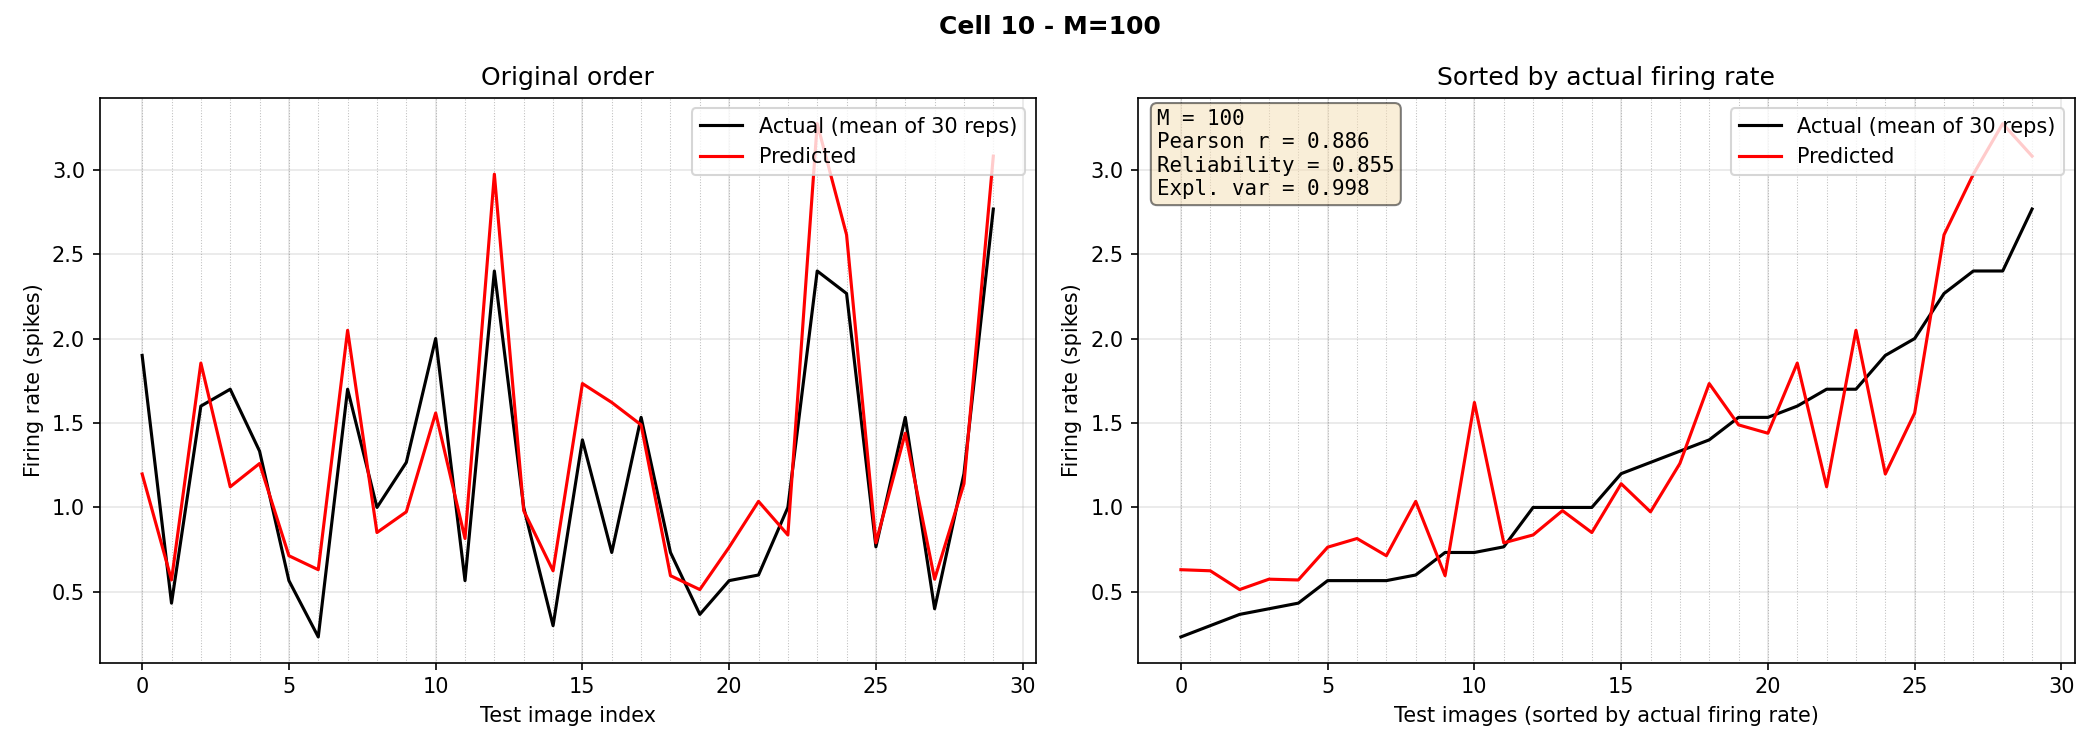
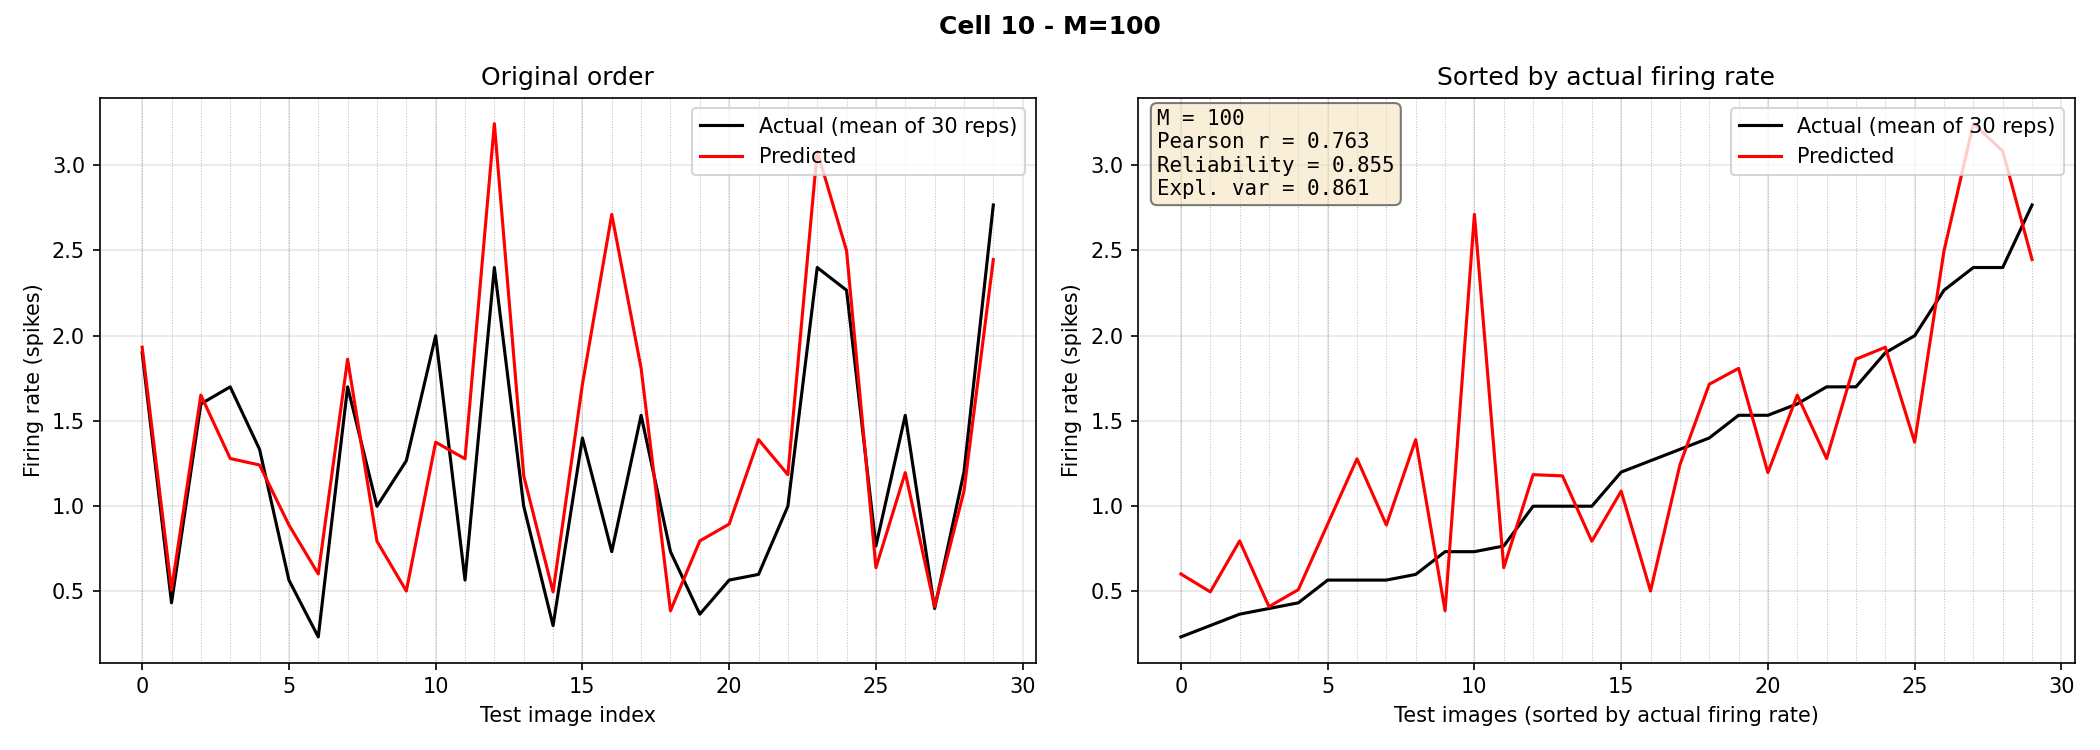
Phase 4: Update documentation after codebase reorganization
## Documentation Updates

- Updated CLAUDE.md:
  - New file map with clear categories (Shared, Eigenspace, GPyTorch, Legacy)
  - Updated training modes section (removed vargp_style)
  - Clarified that legacy files are deprecated

- Renamed VARGP_DIRECT_REFERENCE.md → EIGENSPACE_REFERENCE.md
  - Updated all file path references (eigenspace.py → eigenspace_utils.py, etc.)
  - Updated import examples

- Added SESSION_LOG.md entry documenting complete reorganization

## Current Status

**Active implementations:**
- eigenspace (vargp_direct mode): 7 modular files
- default_gpy: 2 modular files
- Shared utilities: 4 files

**Deprecated/Legacy:**
- deprecated/ folder: vargp_style mode archived with README
- Legacy files still present: train.py, estep.py, fstep.py, mstep.py, model.py
  (marked as deprecated, imported by deprecated/ wrappers, will be removed in future cleanup)

Both active modes tested and working ✓

diff --git a/Spatial_GP_repo/scripts/gpytorch_porting/run_canonical_tests.py b/Spatial_GP_repo/scripts/gpytorch_porting/run_canonical_tests.py
@@ -5,9 +5,11 @@ run_canonical_tests.py - Run the standard benchmark test matrix.
 Runs all canonical configurations for regression testing and performance tracking.
 Results are appended to results/benchmark_results.jsonl.
 
-Test Matrix (16 configurations per seed):
-  - ntrain=500:  M=50, 100, 200 × modes={vargp_old, vargp_style, vargp_direct, default_gpy}
-  - ntrain=2000: M=200 × modes={vargp_old, vargp_style, vargp_direct, default_gpy}
+Test Matrix (12 configurations per seed):
+  - ntrain=500:  M=50, 100, 200 × modes={vargp_old, vargp_direct, default_gpy}
+  - ntrain=2000: M=200 × modes={vargp_old, vargp_direct, default_gpy}
+
+Note: vargp_style mode has been deprecated (2025-02-02)
 
 Constraints (not configurable):
   - float32 precision (for fair comparison - vargp_old uses float32 internally)
@@ -34,23 +36,20 @@ from datetime import datetime
 
 # Test matrix definition
 # Each entry: (mode, M, ntrain)
+# vargp_style removed (deprecated 2025-02-02)
 TEST_MATRIX = [
     # ntrain=500: M=50, 100, 200
     ('vargp_old', 50, 500),
-    ('vargp_style', 50, 500),
     ('vargp_direct', 50, 500),
     ('default_gpy', 50, 500),
     ('vargp_old', 100, 500),
-    ('vargp_style', 100, 500),
     ('vargp_direct', 100, 500),
     ('default_gpy', 100, 500),
     ('vargp_old', 200, 500),
-    ('vargp_style', 200, 500),
     ('vargp_direct', 200, 500),
     ('default_gpy', 200, 500),
     # ntrain=2000: M=200 only
     ('vargp_old', 200, 2000),
-    ('vargp_style', 200, 2000),
     ('vargp_direct', 200, 2000),
     ('default_gpy', 200, 2000),
 ]
@@ -69,9 +68,7 @@ def run_single_test(mode, M, ntrain, seed, output_file, dry_run=False):
         '--float32',  # Use float32 for fair comparison (vargp_old uses float32 internally)
     ]
 
-    # Mode-specific flags
-    if mode == 'vargp_style':
-        cmd.append('--explicit-unwhitening')
+    # Mode-specific flags (none currently needed)
 
     desc = f"{mode:12} M={M:3} ntrain={ntrain:4}"
 

diff --git a/Spatial_GP_repo/scripts/gpytorch_porting/.claude/CLAUDE.md b/Spatial_GP_repo/scripts/gpytorch_porting/.claude/CLAUDE.md
@@ -98,32 +98,53 @@ Use `--gradient-mode MODE` in CLI:
 | `vargp_old` | Original varGP implementation (reference baseline) |
 | `vargp_direct` | Eigenspace projection, exact match to varGP (use --float32) |
 | `default_gpy` | Standard GPyTorch variational inference with LBFGS (use --float32)|
-| `vargp_style` | GPyTorch with whitening strategy | DEPRECATED
+
+**Note**: `vargp_style` mode has been deprecated and moved to `deprecated/` folder. Use `vargp_direct` or `default_gpy` instead.
 
 ---
 
 ## File Map
 
+### Shared Components (used by both implementations)
 | File | Purpose |
 |------|---------|
 | `kernels.py` | ArcCosineKernel with RF structure, masking, gradient modes |
 | `likelihoods.py` | PoissonLikelihood with A, lambda0 |
-| `model.py` | VariationalGPModel (whitened/unwhitened) for vargp_style |
-| `eigenspace_model.py` | DirectVGPModel for vargp_direct (eigenspace projection) |
-| `eigenspace.py` | Low-level eigenspace utilities (mainly for tests) |
-| `train.py` | Training loops + evaluation utilities |
-| `estep.py` | E-step with kernel caching |
-| `fstep.py` | F-step: LBFGS for A, analytical lambda0 |
-| `mstep.py` | M-step: Adam/LBFGS for kernel hyperparameters |
-| `whitening.py` | Natural <-> whitened param conversions |
-| `direct_vargp.py` | Analytical gradient functions for eigenspace M-step |
+| `metrics.py` | Evaluation functions (r², Pearson r, explained variance) |
+| `utils.py` | Shared utilities (lambda0_given_A, compute_f_mean, STA-based RF center) |
 | `analytical_gradients.py` | Jacobian-based gradients (slow, reference) |
 | `analytical_gradients_vjp.py` | VJP-based gradients (fast) |
 | `default_params.json` | Centralized defaults for all modes |
-| `utils_gpy.py` | Standalone utilities (STA-based RF center) |
+
+### Eigenspace Implementation (vargp_direct mode)
+| File | Purpose |
+|------|---------|
+| `eigenspace_model.py` | DirectVGPModel, DirectVariationalState, EigenspacePosterior |
+| `eigenspace_utils.py` | Low-level eigenspace projection utilities |
+| `eigenspace_gradients.py` | Analytical gradient functions for eigenspace M-step |
+| `eigenspace_training.py` | train_eigenspace(), predict_eigenspace(), compute_elbo_eigenspace() |
+| `eigenspace_estep.py` | E-step: Newton update in eigenspace |
+| `eigenspace_fstep.py` | F-step: LBFGS for A with analytical lambda0 |
+| `eigenspace_mstep.py` | M-step: LBFGS for kernel (autograd & analytical) |
+
+### GPyTorch Implementation (default_gpy mode)
+| File | Purpose |
+|------|---------|
+| `gpy_model.py` | VariationalGPModel (standard GPyTorch) |
+| `gpy_training.py` | train_gpy_default(), predict() |
+
+### Entry Points & Utilities
+| File | Purpose |
+|------|---------|
 | `run_single_mode.py` | Main test script |
 | `run_canonical_tests.py` | 12-config benchmark matrix |
 | `query_benchmark.py` | Query benchmark results |
+
+### Legacy Files (deprecated, will be removed)
+| File | Purpose |
+|------|---------|
+| `train.py`, `estep.py`, `fstep.py`, `mstep.py`, `model.py` | Old mixed code, deprecated |
+| `deprecated/` | Archived vargp_style mode (unmaintained) |
 
 **Test files** (in `tests/`):
 - `test_kernel_cache.py`, `test_m_whitening.py`, `test_mask_validation.py`

diff --git a/Spatial_GP_repo/scripts/gpytorch_porting/.claude/EIGENSPACE_REFERENCE.md b/Spatial_GP_repo/scripts/gpytorch_porting/.claude/EIGENSPACE_REFERENCE.md
@@ -96,7 +96,7 @@ gpytorch_porting/
 |   |-- EigenspacePosterior          # Posterior at query points (via model(X))
 |   +-- EigenspaceVariationalDistribution  # Variational params interface
 |
-|-- eigenspace.py            # EIGENSPACE UTILITIES (~200 lines, mainly for tests)
+|-- eigenspace_utils.py            # EIGENSPACE UTILITIES (~200 lines, mainly for tests)
 |   |-- EIGVAL_TOL = 1e-4            # Eigenvalue threshold
 |   |-- eigendecompose_K_tilde()     # Eigendecomposition of inducing kernel
 |   |-- project_to_eigenspace()      # m_b = B.T @ m, etc.
@@ -120,7 +120,7 @@ gpytorch_porting/
 |   |-- mstep_eigenspace_autograd()  # LBFGS with PyTorch autograd
 |   +-- mstep_eigenspace_analytical()# LBFGS with explicit gradients
 |
-|-- direct_vargp.py          # GRADIENT FUNCTIONS ONLY (~440 lines)
+|-- eigenspace_gradients.py          # GRADIENT FUNCTIONS ONLY (~440 lines)
 |   |-- compute_C_and_gradients()    # C matrix and dC/dtheta
 |   |-- compute_kernel_and_gradients()   # K matrix and dK/dtheta
 |   |-- compute_lambda_moments_and_gradients()  # Posterior moments + gradients
@@ -139,7 +139,7 @@ gpytorch_porting/
 
 1. **eigenspace_model.py** is the central module - it contains both the state management (`DirectVariationalState`) and the GPyTorch wrapper classes (`DirectVGPModel`)
 
-2. **direct_vargp.py** now ONLY contains gradient functions for the analytical M-step. All other code has been moved to appropriate modules.
+2. **eigenspace_gradients.py** now ONLY contains gradient functions for the analytical M-step. All other code has been moved to appropriate modules.
 
 3. **Naming convention**: Functions use `_eigenspace` suffix (e.g., `estep_eigenspace`, `fstep_eigenspace`) to distinguish from other training modes
 
@@ -711,7 +711,7 @@ m_new = m + K_tilde @ solve(K_tilde + G, g - m)
 
 There are TWO gradient systems in the codebase:
 1. **Kernel-level gradients** (`analytical_gradients.py`, `analytical_gradients_vjp.py`) - for `--gradient-mode`
-2. **M-step gradients** (`direct_vargp.py`) - for `mstep_eigenspace_analytical()`
+2. **M-step gradients** (`eigenspace_gradients.py`) - for `mstep_eigenspace_analytical()`
 
 These have different APIs but some shared formulas. Consolidation is deferred to avoid breaking anything.
 

diff --git a/Spatial_GP_repo/scripts/gpytorch_porting/.claude/SESSION_LOG.md b/Spatial_GP_repo/scripts/gpytorch_porting/.claude/SESSION_LOG.md
@@ -5,6 +5,33 @@ Updated via "wrap up" command at session end (see WORKING_GUIDELINES.md Section 
 
 ---
 
+## 2026-02-02: Codebase Reorganization - Modular Structure (COMPLETE)
+
+**Accomplished:**
+- **Phase 1**: Created new modular file structure
+  - Eigenspace modules: `eigenspace_*.py` (7 files) - model, utils, gradients, training, estep, fstep, mstep
+  - GPyTorch modules: `gpy_*.py` (2 files) - model, training
+  - Shared modules: `metrics.py`, `utils.py` (extracted from old files)
+- **Phase 2**: Archived deprecated vargp_style code
+  - Created `deprecated/` folder with README and archived files
+  - Moved `whitening.py` → `deprecated/vargp_style_whitening.py`
+- **Phase 3**: Cleaned up imports and deprecated mode handling
+  - Removed vargp_style from `run_single_mode.py`
+  - Marked legacy files (train.py, estep.py, fstep.py, mstep.py, model.py) as deprecated
+- **Phase 4**: Updated documentation
+  - Updated CLAUDE.md with new file map
+  - Renamed VARGP_DIRECT_REFERENCE.md → EIGENSPACE_REFERENCE.md
+  - Updated all file references
+
+**New File Organization:**
+- **Naming convention**: `eigenspace_*` prefix for eigenspace mode, `gpy_*` prefix for GPyTorch mode
+- **Key renamings**: eigenspace.py → eigenspace_utils.py, direct_vargp.py → eigenspace_gradients.py, utils_gpy.py → utils.py
+- **Status**: Both `vargp_direct` and `default_gpy` modes fully tested and working
+
+**Commit**: 23c3856 (checkpoint before reorganization)
+
+---
+
 ## 2026-01-31: vargp_direct Bug Fix & Canonical Test Update (COMPLETE)
 
 **Accomplished:**
